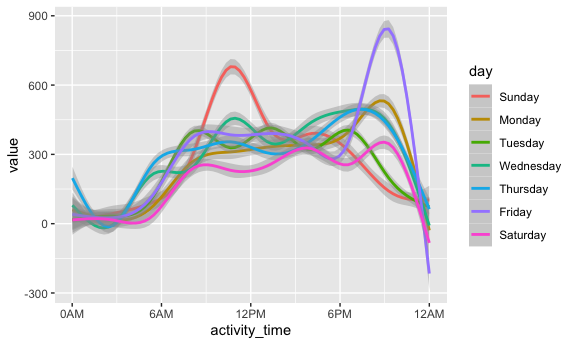
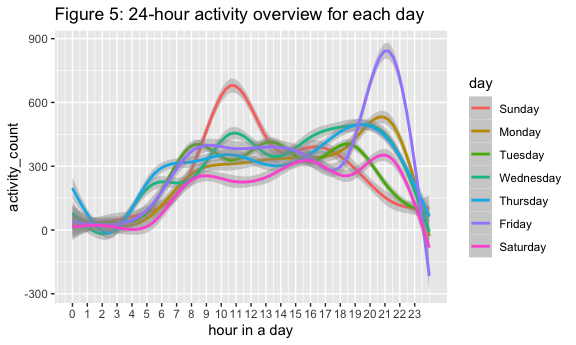
add interpretation and styling

diff --git a/p8105_hw3_hw2849.md b/p8105_hw3_hw2849.md
@@ -253,6 +253,9 @@ Lastly, generated a two-panel plot showing the distribution of
 
 ## Problem 3
 
+\*Load and tidy the data, which includes all originallt variables and
+values, and a new variable `weekday vs weekend`.
+
 ``` r
 accelerometer_data = read_csv("./data/accel_data.csv") %>% 
   janitor::clean_names() %>% ## clean variable names
@@ -260,7 +263,7 @@ accelerometer_data = read_csv("./data/accel_data.csv") %>%
     activity_1:activity_1440,
     names_to = "activity_time",
     names_prefix = "activity_",
-    values_to = "value"
+    values_to = "activity_count"
   ) %>% 
   mutate( ## refactor the variables
     day = factor(day, levels = c("Sunday", "Monday", "Tuesday", "Wednesday", "Thursday", "Friday", "Saturday")), 
@@ -285,31 +288,59 @@ accelerometer_data = read_csv("./data/accel_data.csv") %>%
     ## [1] "Weekend"
     ## [1] "Weekday"
 
+Cleaned the variable names and used `pivot_longer` to make the table
+more readable. Created a weekday vs weekend variable. As a result, we
+have a table with 6 variables and 50400 observations. For example, we
+have variables tell that weeks, days of a week, and `activity_count`
+shows how long of the activity lasts for each day.
+
+-   Find total activity and create a table showing these totals. Any
+    trends..?
+
 ``` r
-accelerometer_data %>% 
+total_activity = accelerometer_data %>% 
   group_by(day_id) %>% 
-  summarize(total_time = sum(value)) %>% 
-ggplot(aes(x = day_id, y = total_time)) + 
+  summarize(total_time = sum(activity_count))
+
+total_activity %>% 
+  ggplot(aes(x = day_id, y = total_time)) + 
   geom_point() + 
-  geom_line()
+  geom_line() + 
+  labs(
+    title = "Figure 4: Total acticity for each day"
+  ) 
 ```
 
 <img src="p8105_hw3_hw2849_files/figure-gfm/unnamed-chunk-8-1.png" width="90%" />
+We grouped by `day_id` and look for the total activity for each day by
+`summarize`, and plot these data into a line plot but there was no trend
+observed.
+
+-   Now we want to make a plot that shows the 24-hour activity time.
 
 ``` r
 accelerometer_data %>% 
   ggplot(aes(x = activity_time, 
-             y = value, 
+             y = activity_count, 
              group = day_id, 
              color = day)
          ) +  
   geom_smooth(aes(group = day)) + 
   scale_x_continuous(
-    breaks = c(0, 360, 720, 1080, 1440),
-    labels = c("0AM", "6AM", "12PM", "6PM", "12AM")
-  )
+    breaks = (0:23)*60 + 1,
+    labels = c(0:23),
+    name = "hour in a day"
+  ) +  
+  labs(
+    title = "Figure 5: 24-hour activity overview for each day"
+  ) 
 ```
 
     ## `geom_smooth()` using method = 'gam' and formula 'y ~ s(x, bs = "cs")'
 
 <img src="p8105_hw3_hw2849_files/figure-gfm/unnamed-chunk-9-1.png" width="90%" />
+This part we made a plot to show a 24-hour activity time for each day.
+The plot tells that Friday has a peak time of activity and Sunday
+follows. Generally between 0am to 5am there is less activity, and it
+starts increasing at 5am. And it has an obvious declining after
+9pm-10pm.
